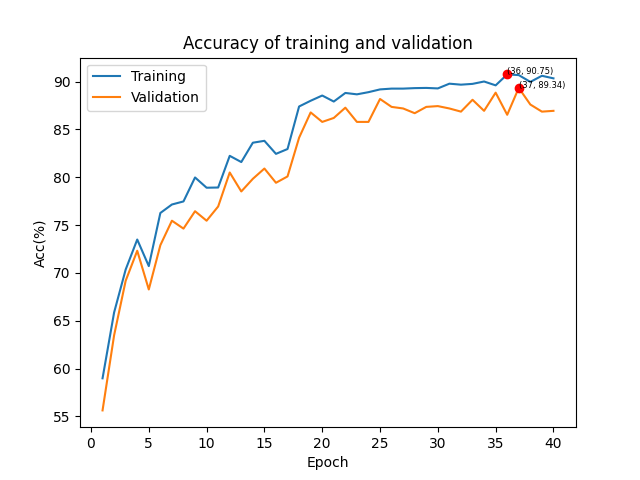
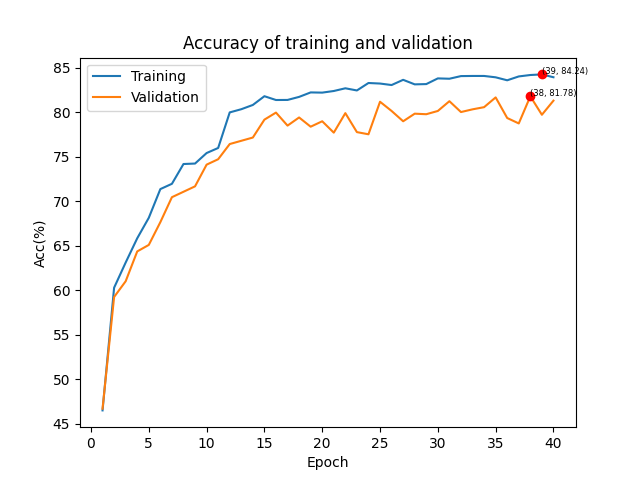
upd readme

diff --git a/train.py b/train.py
@@ -20,8 +20,7 @@ def eval_model_train(model, trainLoader, tra_acc_list):
     y_true, y_pred = [], []
     with torch.no_grad():
         for data in trainLoader:
-            inputs, labels = toCUDA(data[0]), toCUDA(data[1])
-            # outputs = forward(model, m_type, inputs)
+            inputs, labels = data[0], toCUDA(data[1])
             outputs = model.forward(inputs)
             predicted = torch.max(outputs.data, 1)[1]
             y_true.extend(labels.tolist())
@@ -36,8 +35,7 @@ def eval_model_valid(model, validationLoader, val_acc_list):
     y_true, y_pred = [], []
     with torch.no_grad():
         for data in validationLoader:
-            inputs, labels = toCUDA(data[0]), toCUDA(data[1])
-            # outputs = forward(model, m_type, inputs)
+            inputs, labels = data[0], toCUDA(data[1])
             outputs = model.forward(inputs)
             predicted = torch.max(outputs.data, 1)[1]
             y_true.extend(labels.tolist())
@@ -52,8 +50,7 @@ def eval_model_test(model, testLoader):
     y_true, y_pred = [], []
     with torch.no_grad():
         for data in testLoader:
-            inputs, labels = toCUDA(data[0]), toCUDA(data[1])
-            # outputs = forward(model, m_type, inputs)
+            inputs, labels = data[0], toCUDA(data[1])
             outputs = model.forward(inputs)
             predicted = torch.max(outputs.data, 1)[1]
             y_true.extend(labels.tolist())
@@ -162,7 +159,7 @@ def train(backbone_ver='alexnet', epoch_num=40, iteration=10, lr=0.001):
         running_loss = 0.0
         for i, data in enumerate(trainLoader, 0):
             # get the inputs
-            inputs, labels = toCUDA(data[0]), toCUDA(data[1])
+            inputs, labels = data[0], toCUDA(data[1])
             # zero the parameter gradients
             optimizer.zero_grad()
 

diff --git a/README.md b/README.md
@@ -1,6 +1,6 @@
 # Piano-Classification
 
-Classify piano sound quality by fine-tuning pre-trained models.
+Classify piano sound quality by fine-tuned pre-trained models.
 
 ## Usage
 
@@ -58,17 +58,17 @@ __Supported backbones__
 ### Plot results
 After finishing the training, use below command to plot latest results:
 ```
-python plotter.py
+python plot.py
 ```
 
 ### Predict
 Use below command to predict an audio target by latest saved model:
 ```
-python evaluate.py --target ./test/KAWAI.wav
+python eval.py --target ./test/KAWAI.wav
 ```
 
 ## Results
 A demo result of AlexNet fine-tuning:
-| <img src="./results/loss.png"/> |  <img src="./results/acc.png"/>  |
-| :-----------------------------: | :------------------------------: |
-|           Loss curve            | Training and validation accuracy |
+| <img src="./results/loss.png"/> |  <img src="./results/acc.png"/>  | <img src="./results/mat.png"/> |
+| :-----------------------------: | :------------------------------: | :----------------------------: |
+|           Loss curve            | Training and validation accuracy |        Confusion matrix        |
